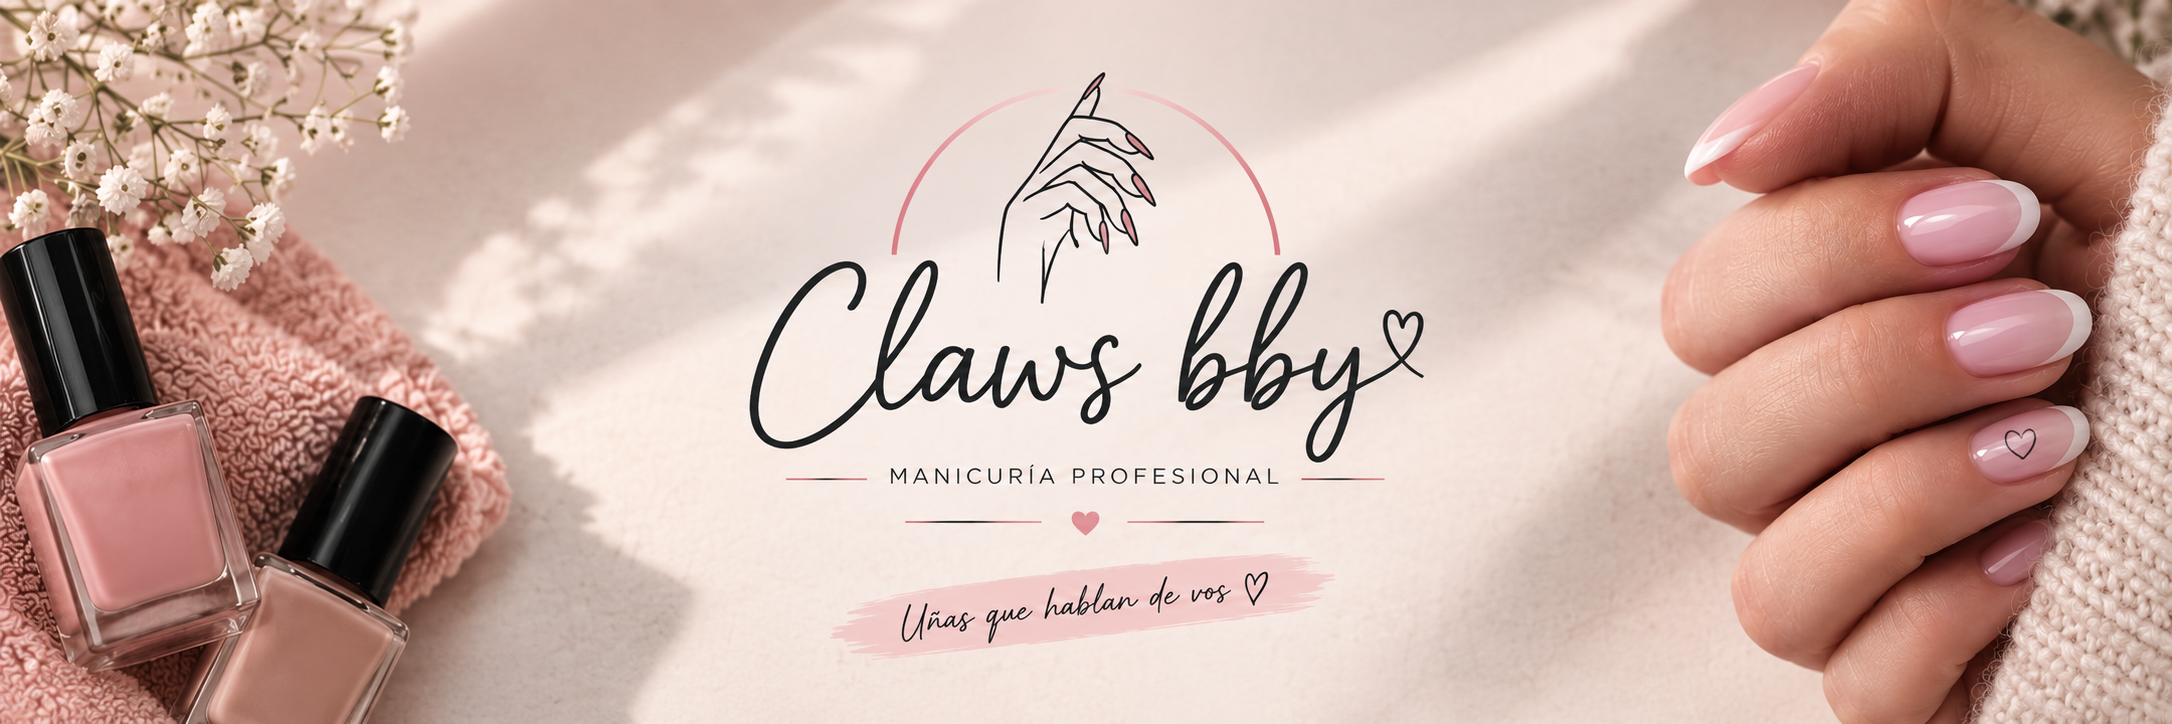
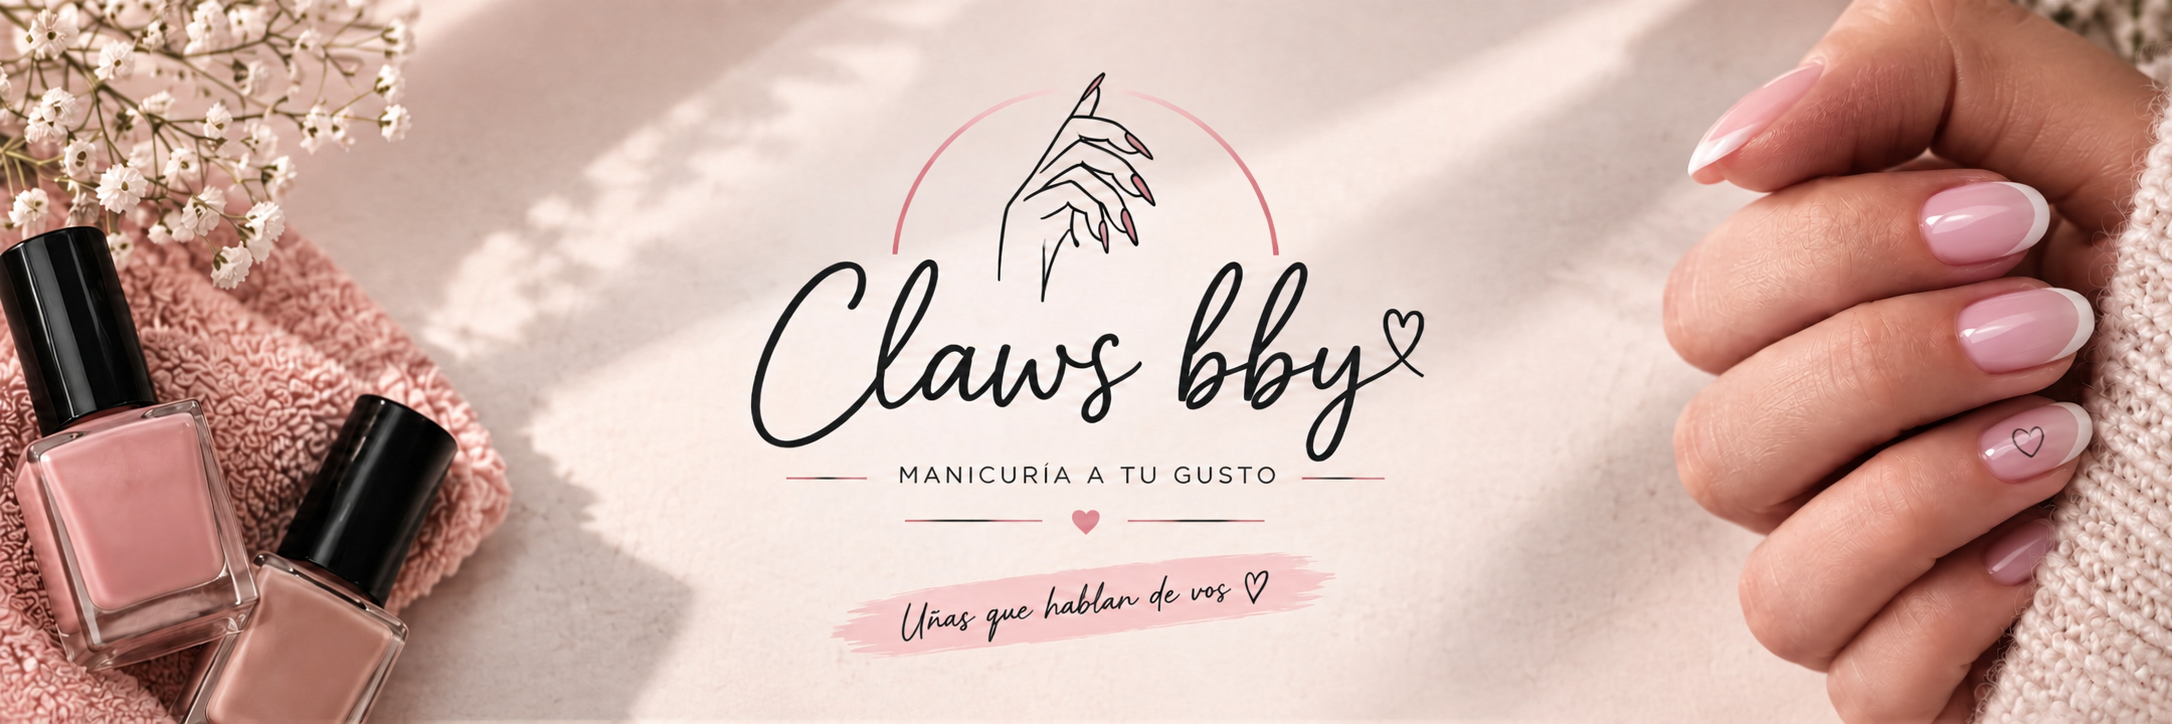
Segunda version del proyecto

diff --git a/index.html b/index.html
@@ -118,7 +118,7 @@
                     </h1>
 
                     <p>
-                        Me llamo Evi y soy manicurista profesional.
+                        Me llamo Evi y soy manicurista principiante.
                         Creo que unas uñas lindas no son solamente un detalle,
                         sino una forma de expresar quién sos.
                     </p>
